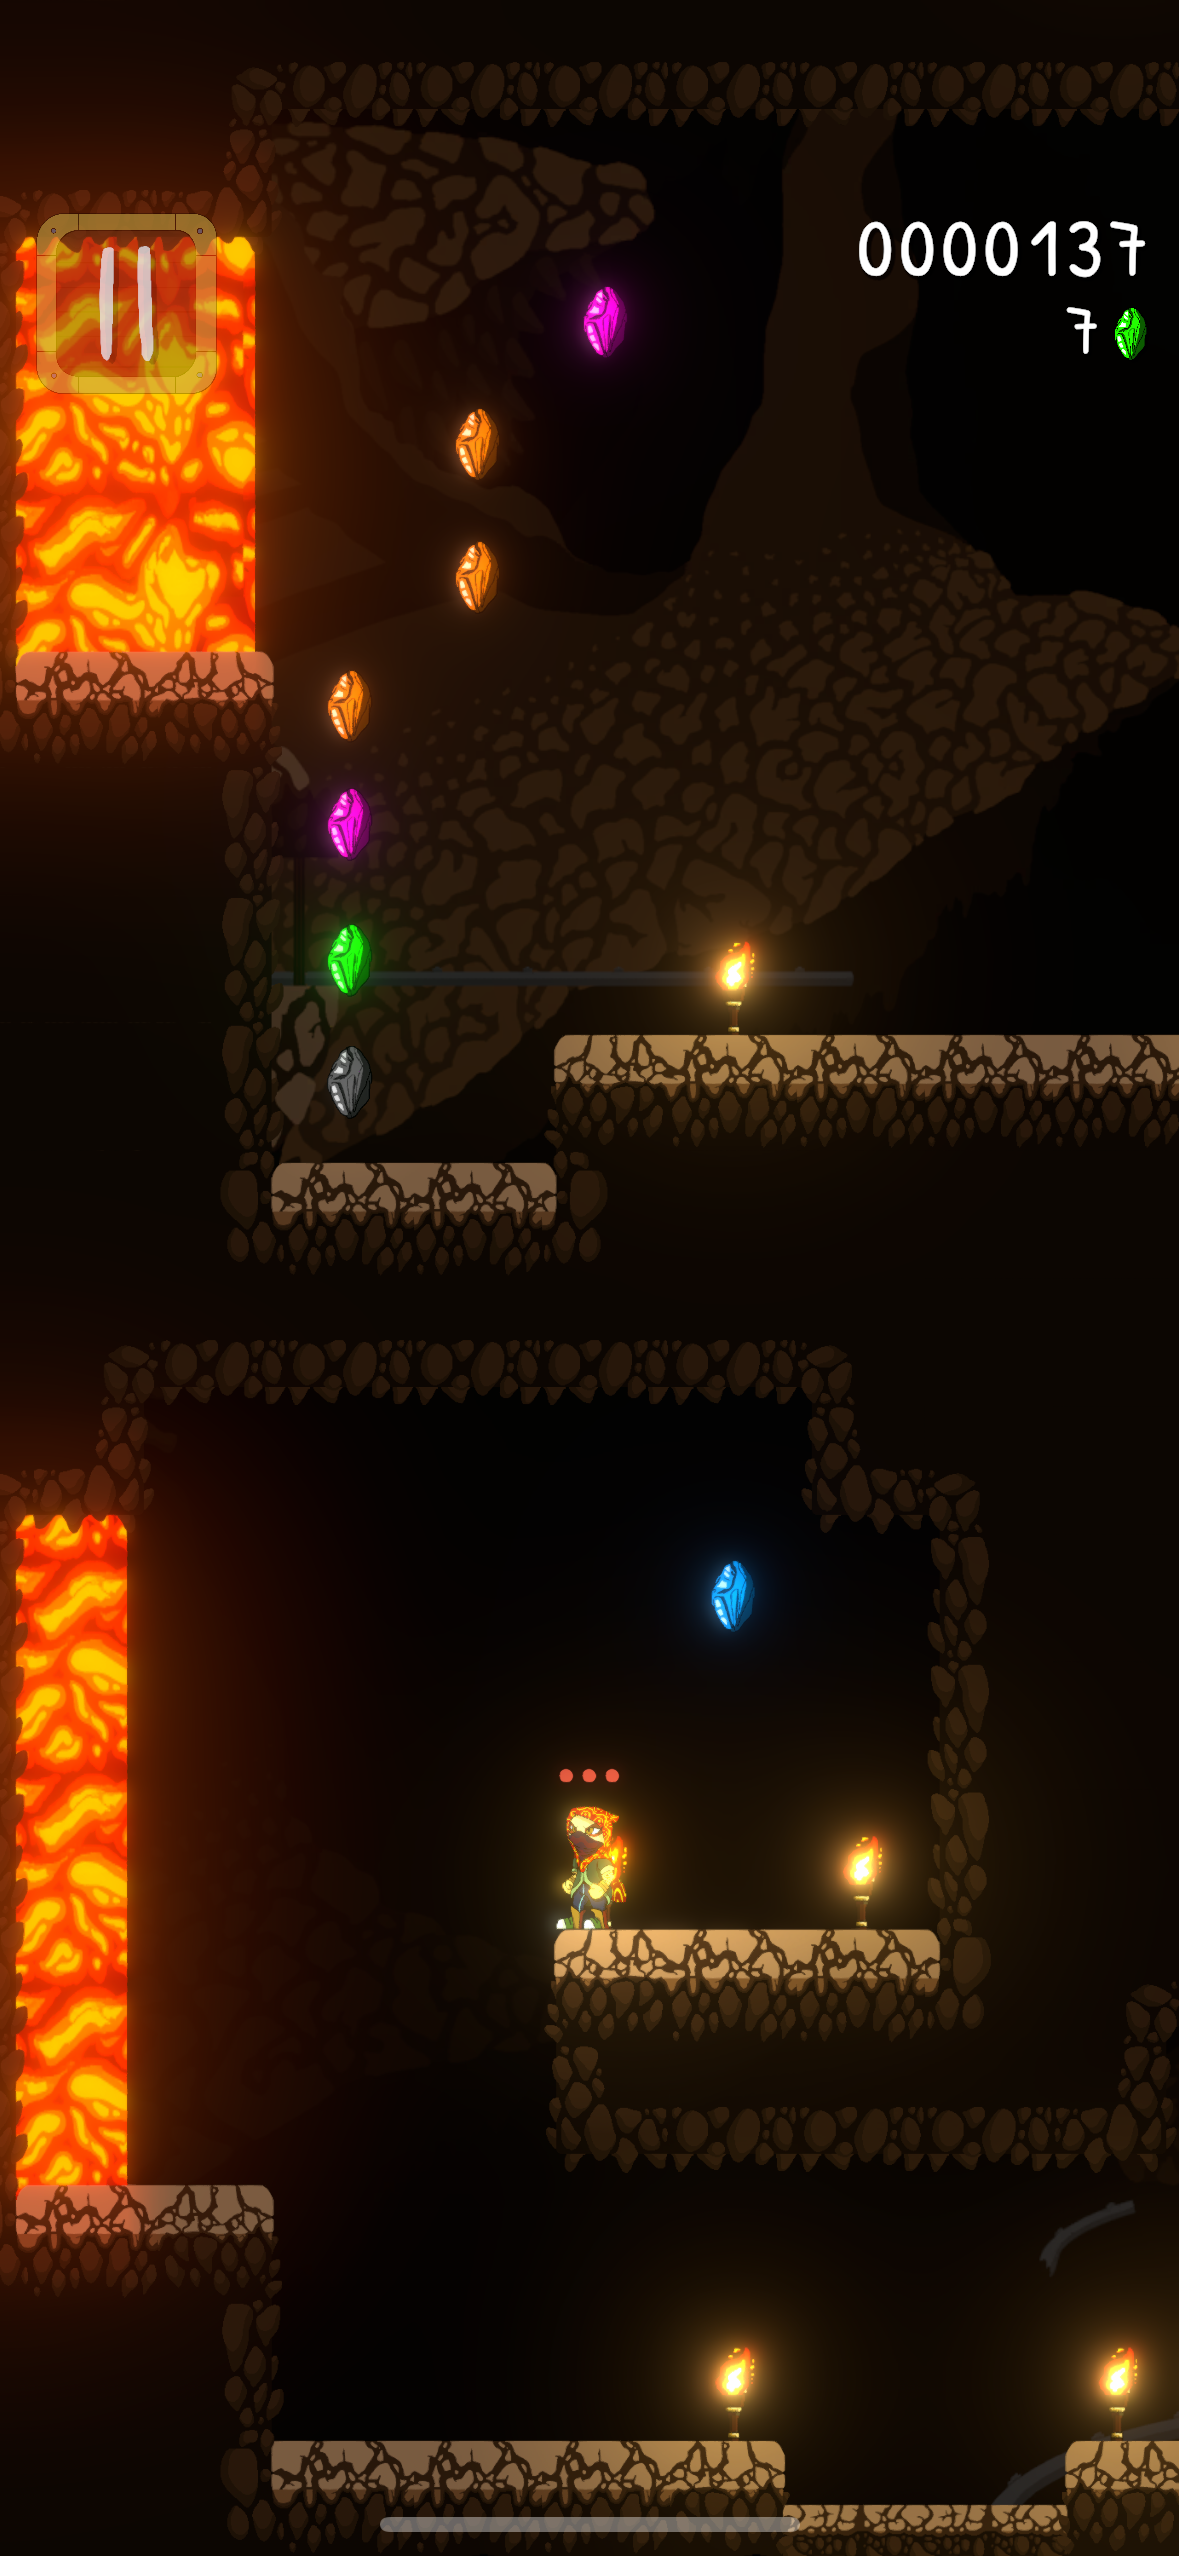
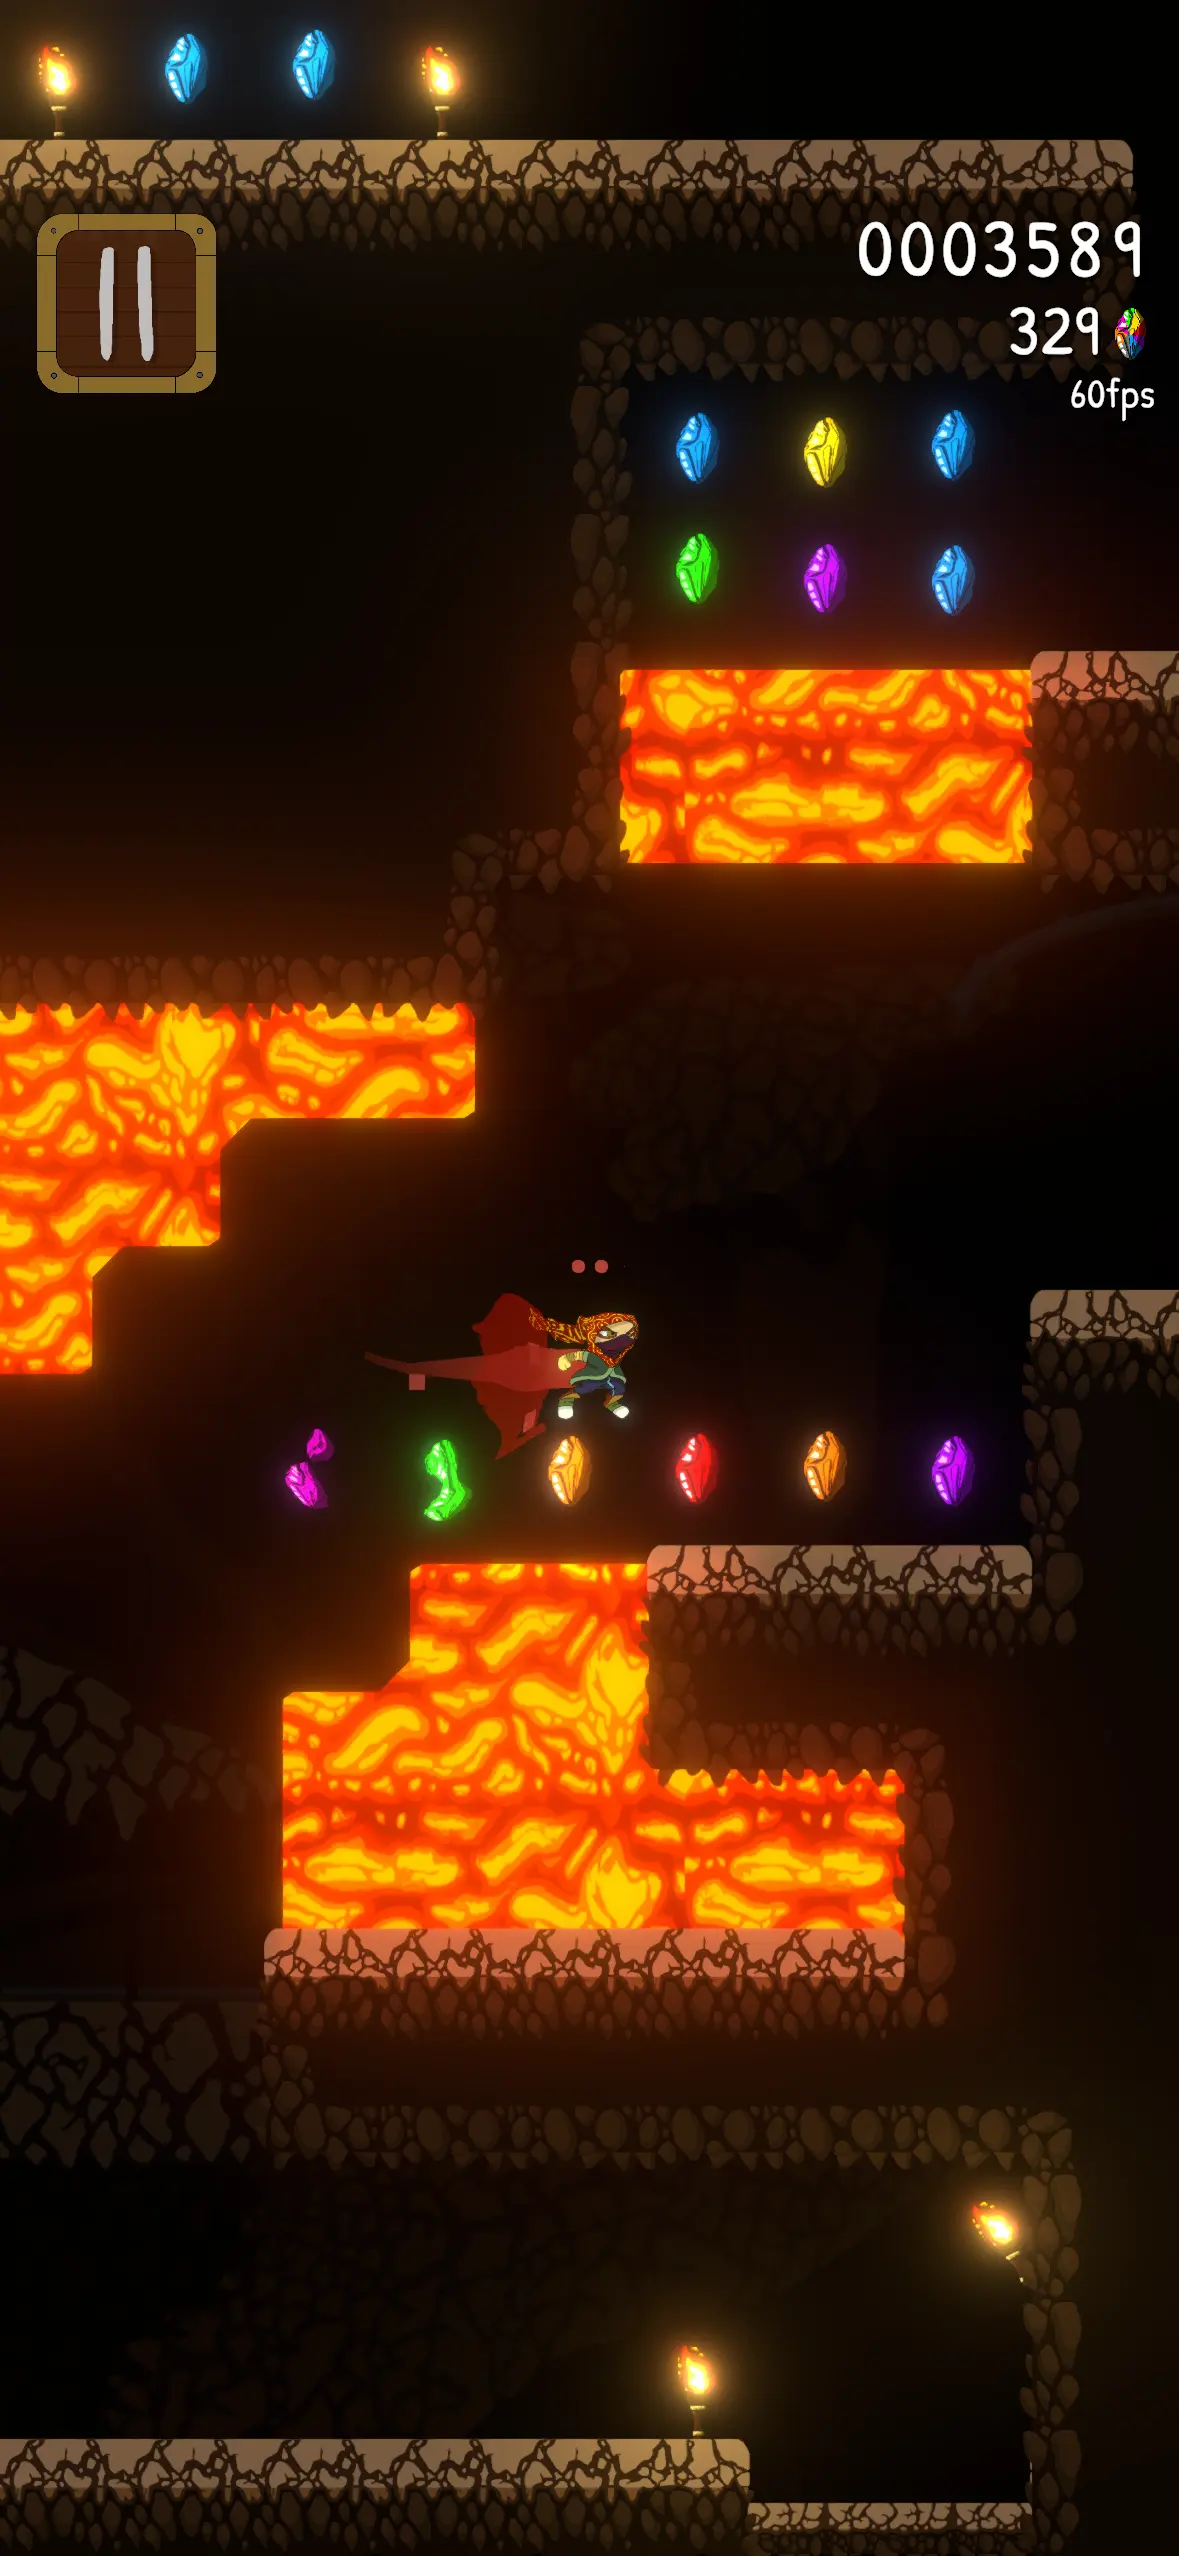
added screenshots to Ember Ruin page

diff --git a/app/(emberruin)/emberruin/page.js b/app/(emberruin)/emberruin/page.js
@@ -68,13 +68,15 @@ export default function EmberRuin() {
           </p>
           <p className={styles.sectionParagraph}>So, I decided to come up with a solution.</p>
         </div>
+                <div className={styles.screenshotContainer}>
+            <Image src={`${process.env.NEXT_PUBLIC_BASE_URL}/images/ember-ruin/screenshot-1.webp`} alt="Ember Ruin Gameplay Screenshot" width={1179 / 2} height={2556 / 2} className={styles.screenshot} />
+            <Image src={`${process.env.NEXT_PUBLIC_BASE_URL}/images/ember-ruin/screenshot-2.webp`} alt="Ember Ruin Gameplay Screenshot" width={1179 / 2} height={2556 / 2} className={styles.screenshot} />
+            <Image src={`${process.env.NEXT_PUBLIC_BASE_URL}/images/ember-ruin/screenshot-3.webp`} alt="Ember Ruin Gameplay Screenshot" width={1179 / 2} height={2556 / 2} className={styles.screenshot} />
+        </div>
       </section>
 
       {/* ===== Section: Gameplay ===== */}
       <section className={styles.splitSection} id="gameplay">
-        <div className={styles.mediaHolder}>
-          <video src={`${process.env.NEXT_PUBLIC_BASE_URL}/videos/emberruin_gameplay.mp4`} autoPlay muted loop playsInline className={styles.gameplayVideo}></video>
-        </div>
         <div className={styles.sectionTextContent}>
           <h2 className={`${styles.sectionHeading} ${patrickHand.className}`}>Gameplay</h2>
           <p className={styles.sectionParagraph}>
@@ -87,6 +89,11 @@ export default function EmberRuin() {
             Each run is built from handcrafted segments that blend seamlessly through procedural generation, creating endless journeys upward through <em>The Depths</em>.
           </p>
           <p className={styles.sectionParagraph}>Climb higher, master every movement, and fight for your spot on the <strong>leaderboards</strong>.</p>
+        </div>
+        <div className={styles.screenshotContainer}>
+            <Image src={`${process.env.NEXT_PUBLIC_BASE_URL}/images/ember-ruin/screenshot-4.webp`} alt="Ember Ruin Gameplay Screenshot" width={1179 / 2} height={2556 / 2} className={styles.screenshot} />
+            <Image src={`${process.env.NEXT_PUBLIC_BASE_URL}/images/ember-ruin/screenshot-5.webp`} alt="Ember Ruin Gameplay Screenshot" width={1179 / 2} height={2556 / 2} className={styles.screenshot} />
+            <Image src={`${process.env.NEXT_PUBLIC_BASE_URL}/images/ember-ruin/screenshot-6.webp`} alt="Ember Ruin Gameplay Screenshot" width={1179 / 2} height={2556 / 2} className={styles.screenshot} />
         </div>
       </section>
 

diff --git a/app/(emberruin)/emberruin/page.module.css b/app/(emberruin)/emberruin/page.module.css
@@ -13,7 +13,7 @@
     left: 0;
     width: 100vw;
     min-height: 100vh;
-    background: radial-gradient(circle at center, #5e3b15 20%, #100000 80%);
+    background: radial-gradient(circle at center, #5e3b15 30%, #100000 80%);
     background-size: 100% 100vh;
     background-repeat: repeat-y;
     z-index: -100;
@@ -219,4 +219,21 @@
     font-size: 1.2em;
     color: #d4a547;
     font-style: italic;
+}
+
+.screenshotContainer{
+    width: 100%;
+    display: flex;
+    justify-content: center;
+    align-items: center;
+    gap: 2vw;
+    margin: 2vh 0;
+}
+
+.screenshot{
+    width: min(300px, 20vw);
+    height: auto;
+    border: 5px solid #ba923b;
+    border-radius: 3em;
+    box-shadow: 0 0 15px rgba(186, 146, 59, 0.6);
 }
